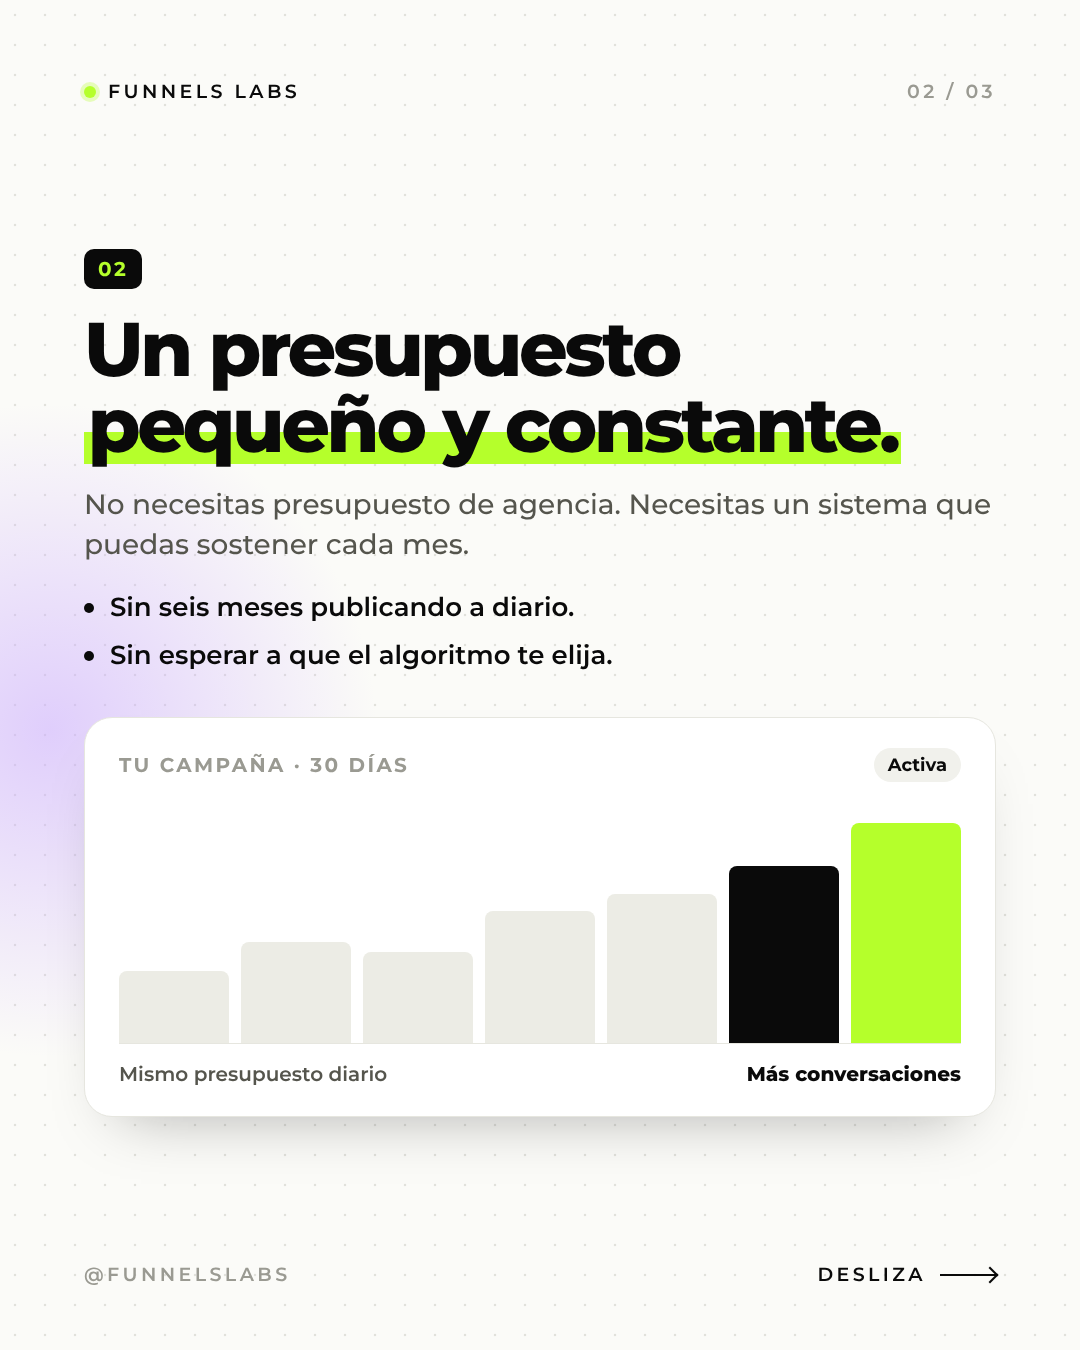
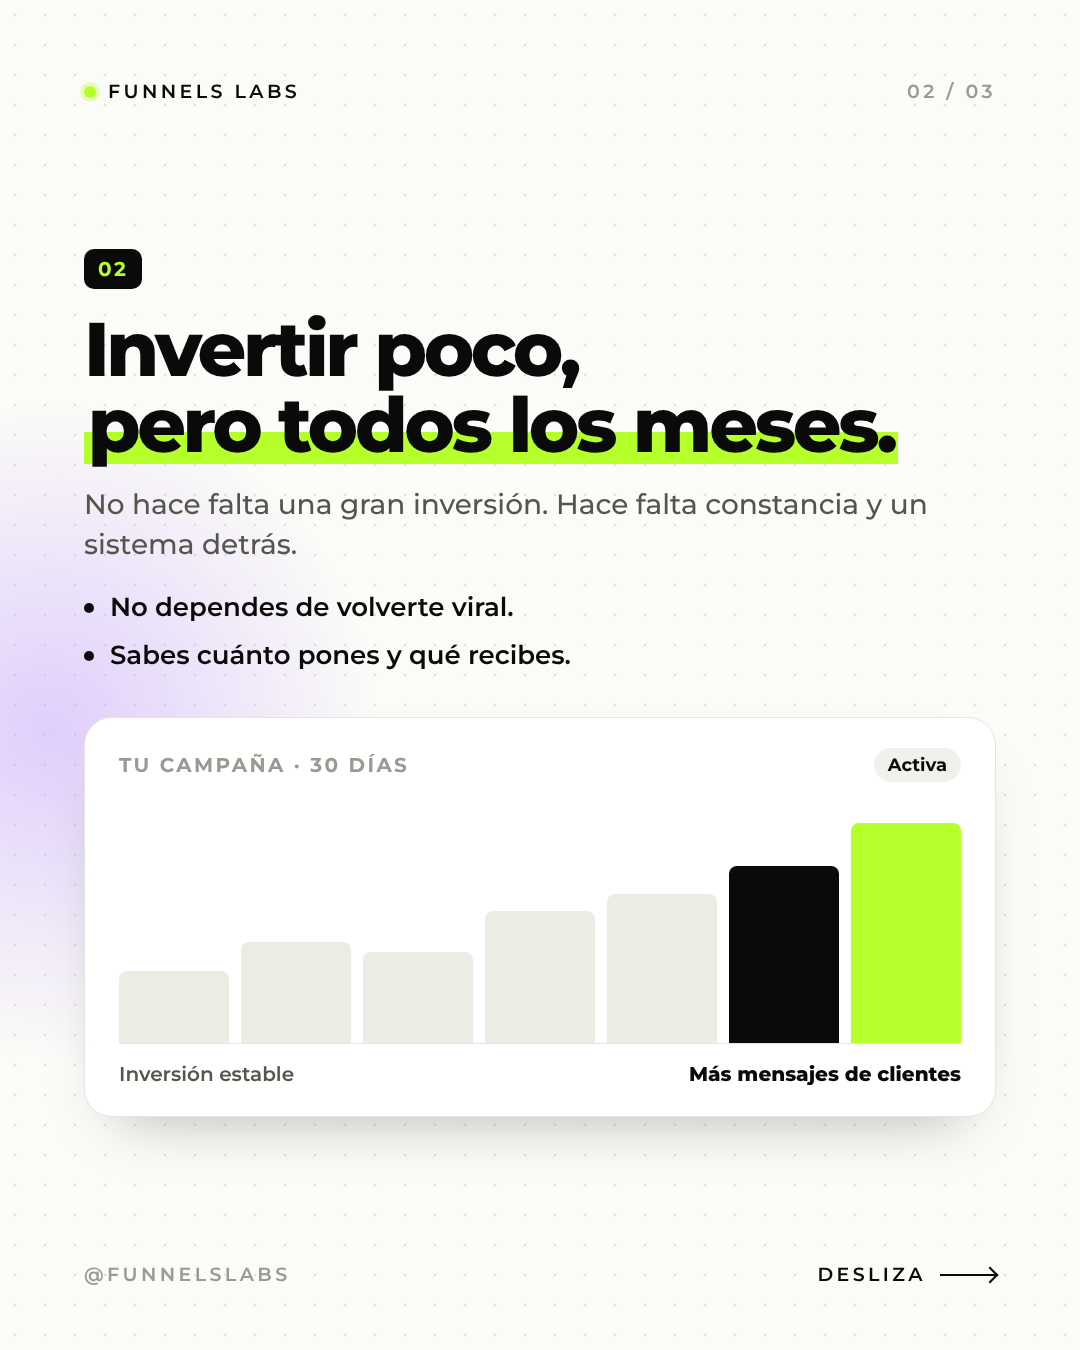
Orgánico no alcanza: mismo mensaje con textos propios
Claude-Session: https://claude.ai/code/session_018d4LXHkXweDJXxfN5x99dL

diff --git a/carruseles/organico-no-alcanza/carrusel.html b/carruseles/organico-no-alcanza/carrusel.html
@@ -54,8 +54,8 @@ body{background:#d9d9d2;font-family:"Montserrat",Arial,sans-serif;color:var(--in
       </div>
     </div>
   </div>
-  <div class="tag" style="margin-top:48px"><i></i>Lo que está cambiando</div>
-  <div class="h" style="font-size:84px;margin-top:22px">Publicar ya no<br>alcanza <span class="l">para</span> <span class="mark">vender.</span></div>
+  <div class="tag" style="margin-top:48px"><i></i>Las reglas cambiaron</div>
+  <div class="h" style="font-size:84px;margin-top:22px">Subir posts ya no<br><span class="l">te garantiza</span> <span class="mark">clientes.</span></div>
   <div class="foot"><span>@funnelslabs</span><span class="go">Desliza<s></s></span></div>
 </section>
 
@@ -63,12 +63,12 @@ body{background:#d9d9d2;font-family:"Montserrat",Arial,sans-serif;color:var(--in
 <section class="slide">
   <div class="blob" style="width:640px;height:640px;left:-260px;bottom:-200px;background:radial-gradient(circle,rgba(201,169,255,.6),rgba(201,169,255,0) 68%)"></div>
   <div class="top"><div class="b"><i></i>Funnels Labs</div><div>Contexto</div></div>
-  <div class="h" style="font-size:68px;margin-top:60px">Hoy tu feed lo decide<br>la <span class="mark">IA de Meta</span>,<br><span class="l">no tus seguidores.</span></div>
-  <p class="p" style="margin-top:28px;max-width:860px">Cada vez más de lo que ves en Instagram y Facebook es contenido recomendado, no de las cuentas que sigues. Publicar y esperar ya no es una estrategia.</p>
+  <div class="h" style="font-size:68px;margin-top:60px">Ya no te ve quien te sigue.<br><span class="l">Te ve quien</span><br><span class="mark">el algoritmo elige.</span></div>
+  <p class="p" style="margin-top:28px;max-width:860px">Instagram y Facebook muestran cada vez más contenido sugerido y menos de las cuentas que sigues. Esperar a que te descubran es dejarlo a la suerte.</p>
   <div style="position:relative;margin-top:44px;align-self:center">
     <div class="photo" style="width:620px;height:620px"><img src="img/zuck-retrato.jpg" style="object-position:50% 30%"></div>
-    <div class="chip" style="left:-120px;top:70px"><span style="width:44px;height:44px;border-radius:12px;background:var(--lime);display:flex;align-items:center;justify-content:center"><svg width="24" height="24" viewBox="0 0 24 24" fill="none" stroke="#0a0a0a" stroke-width="2.6" stroke-linecap="round"><path d="M4 17l5-5 4 4 7-8"/></svg></span>Más contenido recomendado</div>
-    <div class="chip" style="right:-110px;bottom:90px"><span style="width:44px;height:44px;border-radius:12px;background:#f1f1ec;display:flex;align-items:center;justify-content:center"><svg width="24" height="24" viewBox="0 0 24 24" fill="none" stroke="#0a0a0a" stroke-width="2.6" stroke-linecap="round"><path d="M4 7l5 5 4-4 7 8"/></svg></span>Menos alcance orgánico</div>
+    <div class="chip" style="left:-120px;top:70px"><span style="width:44px;height:44px;border-radius:12px;background:var(--lime);display:flex;align-items:center;justify-content:center"><svg width="24" height="24" viewBox="0 0 24 24" fill="none" stroke="#0a0a0a" stroke-width="2.6" stroke-linecap="round"><path d="M4 17l5-5 4 4 7-8"/></svg></span>Más contenido sugerido</div>
+    <div class="chip" style="right:-110px;bottom:90px"><span style="width:44px;height:44px;border-radius:12px;background:#f1f1ec;display:flex;align-items:center;justify-content:center"><svg width="24" height="24" viewBox="0 0 24 24" fill="none" stroke="#0a0a0a" stroke-width="2.6" stroke-linecap="round"><path d="M4 7l5 5 4-4 7 8"/></svg></span>Menos alcance gratis</div>
   </div>
   <div class="foot"><span>@funnelslabs</span><span class="go">Desliza<s></s></span></div>
 </section>
@@ -78,9 +78,9 @@ body{background:#d9d9d2;font-family:"Montserrat",Arial,sans-serif;color:var(--in
   <div class="blob" style="width:900px;height:900px;left:90px;top:220px;background:radial-gradient(circle,rgba(181,255,43,.45),rgba(181,255,43,0) 62%)"></div>
   <div class="top" style="position:absolute;left:84px;right:84px;top:80px"><div class="b"><i></i>Funnels Labs</div><div>La pregunta</div></div>
   <div style="text-align:center">
-    <div class="l" style="font-size:56px">Entonces…</div>
-    <div class="h" style="font-size:104px;margin-top:26px">¿qué funciona<br>en su lugar?</div>
-    <p class="p" style="margin-top:36px">Tres cosas que sí están trayendo clientes.</p>
+    <div class="l" style="font-size:56px">La pregunta es…</div>
+    <div class="h" style="font-size:104px;margin-top:26px">¿cómo consigues<br>clientes hoy?</div>
+    <p class="p" style="margin-top:36px">Tres piezas que hoy sí están funcionando.</p>
     <div style="display:flex;justify-content:center;gap:16px;margin-top:44px">
       <span class="num">01 · ANUNCIOS</span><span class="num">02 · PRESUPUESTO</span><span class="num">03 · WHATSAPP</span>
     </div>
@@ -93,9 +93,9 @@ body{background:#d9d9d2;font-family:"Montserrat",Arial,sans-serif;color:var(--in
   <div class="blob" style="width:700px;height:700px;right:-280px;bottom:-160px;background:radial-gradient(circle,rgba(181,255,43,.5),rgba(181,255,43,0) 66%)"></div>
   <div class="top"><div class="b"><i></i>Funnels Labs</div><div>01 / 03</div></div>
   <span class="num" style="margin-top:56px">01</span>
-  <div class="h" style="font-size:76px;margin-top:22px">El anuncio simple<br><span class="mark">que sí vende.</span></div>
-  <p class="p" style="margin-top:22px">Gana lo real, no lo superproducido.</p>
-  <ul class="bul"><li>Una foto con tu celular.</li><li>Tres líneas de texto, sin guion ni editor.</li><li>Se ve como contenido, no como publicidad.</li></ul>
+  <div class="h" style="font-size:76px;margin-top:22px">Menos producción,<br><span class="mark">más ventas.</span></div>
+  <p class="p" style="margin-top:22px">Los anuncios que parecen hechos en casa conectan más.</p>
+  <ul class="bul"><li>La cámara de tu celular es suficiente.</li><li>Un mensaje corto y directo.</li><li>Parece una publicación, no un comercial.</li></ul>
   <div style="display:flex;gap:34px;margin-top:44px;align-items:flex-end">
     <div class="card" style="width:380px;padding:16px">
       <div style="display:flex;align-items:center;gap:12px;padding:6px 6px 14px"><span style="width:40px;height:40px;border-radius:99px;background:var(--ink)"></span><div><div style="font-size:18px;font-weight:700">tu.negocio</div><div style="font-size:14px;color:var(--faint)">Publicidad</div></div></div>
@@ -105,7 +105,7 @@ body{background:#d9d9d2;font-family:"Montserrat",Arial,sans-serif;color:var(--in
       </div>
       <div style="margin-top:14px;background:var(--ink);color:#fff;font-weight:700;font-size:18px;text-align:center;border-radius:10px;padding:12px">Enviar mensaje</div>
     </div>
-    <div style="font-size:24px;font-weight:600;line-height:1.35;color:var(--muted);max-width:360px;padding-bottom:30px">Hecho en 15 minutos.<br><span style="color:var(--ink);font-weight:800">Sin agencia, sin estudio.</span></div>
+    <div style="font-size:24px;font-weight:600;line-height:1.35;color:var(--muted);max-width:360px;padding-bottom:30px">Listo en una tarde.<br><span style="color:var(--ink);font-weight:800">Sin equipo de producción.</span></div>
   </div>
   <div class="foot"><span>@funnelslabs</span><span class="go">Desliza<s></s></span></div>
 </section>
@@ -115,15 +115,15 @@ body{background:#d9d9d2;font-family:"Montserrat",Arial,sans-serif;color:var(--in
   <div class="blob" style="width:700px;height:700px;left:-300px;top:380px;background:radial-gradient(circle,rgba(201,169,255,.55),rgba(201,169,255,0) 66%)"></div>
   <div class="top"><div class="b"><i></i>Funnels Labs</div><div>02 / 03</div></div>
   <span class="num" style="margin-top:auto">02</span>
-  <div class="h" style="font-size:76px;margin-top:22px">Un presupuesto<br><span class="mark">pequeño y constante.</span></div>
-  <p class="p" style="margin-top:22px">No necesitas presupuesto de agencia. Necesitas un sistema que puedas sostener cada mes.</p>
-  <ul class="bul"><li>Sin seis meses publicando a diario.</li><li>Sin esperar a que el algoritmo te elija.</li></ul>
+  <div class="h" style="font-size:76px;margin-top:22px">Invertir poco,<br><span class="mark">pero todos los meses.</span></div>
+  <p class="p" style="margin-top:22px">No hace falta una gran inversión. Hace falta constancia y un sistema detrás.</p>
+  <ul class="bul"><li>No dependes de volverte viral.</li><li>Sabes cuánto pones y qué recibes.</li></ul>
   <div class="card" style="margin-top:44px;padding:30px 34px">
     <div style="display:flex;justify-content:space-between;align-items:center"><span style="font-size:20px;font-weight:700;letter-spacing:.12em;text-transform:uppercase;color:var(--faint)">Tu campaña · 30 días</span><span style="font-size:18px;font-weight:700;background:#f1f1ec;border-radius:99px;padding:6px 14px">Activa</span></div>
     <div style="display:flex;align-items:flex-end;gap:12px;height:240px;margin-top:22px;border-bottom:1px solid var(--line)">
       <i style="flex:1;height:30%;background:#ecece5;border-radius:8px 8px 0 0"></i><i style="flex:1;height:42%;background:#ecece5;border-radius:8px 8px 0 0"></i><i style="flex:1;height:38%;background:#ecece5;border-radius:8px 8px 0 0"></i><i style="flex:1;height:55%;background:#ecece5;border-radius:8px 8px 0 0"></i><i style="flex:1;height:62%;background:#ecece5;border-radius:8px 8px 0 0"></i><i style="flex:1;height:74%;background:var(--ink);border-radius:8px 8px 0 0"></i><i style="flex:1;height:92%;background:var(--lime);border-radius:8px 8px 0 0"></i>
     </div>
-    <div style="display:flex;justify-content:space-between;margin-top:18px;font-size:20px;font-weight:600;color:var(--muted)"><span>Mismo presupuesto diario</span><span style="color:var(--ink);font-weight:800">Más conversaciones</span></div>
+    <div style="display:flex;justify-content:space-between;margin-top:18px;font-size:20px;font-weight:600;color:var(--muted)"><span>Inversión estable</span><span style="color:var(--ink);font-weight:800">Más mensajes de clientes</span></div>
   </div>
   <div class="foot"><span>@funnelslabs</span><span class="go">Desliza<s></s></span></div>
 </section>
@@ -133,12 +133,12 @@ body{background:#d9d9d2;font-family:"Montserrat",Arial,sans-serif;color:var(--in
   <div class="blob" style="width:760px;height:760px;right:-300px;top:-260px;background:radial-gradient(circle,rgba(181,255,43,.5),rgba(181,255,43,0) 66%)"></div>
   <div class="top"><div class="b"><i></i>Funnels Labs</div><div>03 / 03</div></div>
   <span class="num" style="margin-top:auto">03</span>
-  <div class="h" style="font-size:76px;margin-top:22px">Del anuncio al cierre<br><span class="mark">por WhatsApp.</span></div>
-  <p class="p" style="margin-top:22px">Cada paso lleva al siguiente. Nadie se queda en un like.</p>
+  <div class="h" style="font-size:76px;margin-top:22px">Que cada clic<br><span class="mark">termine en venta.</span></div>
+  <p class="p" style="margin-top:22px">Un camino claro, del primer clic al pago.</p>
   <div style="display:flex;flex-direction:column;gap:22px;margin-top:50px">
-    <div class="card" style="display:flex;align-items:center;gap:26px;padding:26px 30px"><span class="num" style="align-self:center">01</span><div><div style="font-size:32px;font-weight:800;letter-spacing:-0.02em">El anuncio lleva a WhatsApp</div><div style="font-size:22px;color:var(--muted);margin-top:4px">Un clic y ya está conversando contigo.</div></div></div>
-    <div class="card" style="display:flex;align-items:center;gap:26px;padding:26px 30px;margin-left:50px"><span class="num" style="align-self:center">02</span><div><div style="font-size:32px;font-weight:800;letter-spacing:-0.02em">La IA responde y califica</div><div style="font-size:22px;color:var(--muted);margin-top:4px">Al instante, a cualquier hora.</div></div></div>
-    <div class="card" style="display:flex;align-items:center;gap:26px;padding:26px 30px;margin-left:100px;border:2px solid var(--ink)"><span class="num" style="align-self:center;background:var(--lime);color:var(--ink)">03</span><div><div style="font-size:32px;font-weight:800;letter-spacing:-0.02em">Agenda o compra</div><div style="font-size:22px;color:var(--muted);margin-top:4px">Tú solo atiendes a quien ya está listo.</div></div></div>
+    <div class="card" style="display:flex;align-items:center;gap:26px;padding:26px 30px"><span class="num" style="align-self:center">01</span><div><div style="font-size:32px;font-weight:800;letter-spacing:-0.02em">Ven el anuncio y te escriben</div><div style="font-size:22px;color:var(--muted);margin-top:4px">Directo a tu WhatsApp, sin formularios.</div></div></div>
+    <div class="card" style="display:flex;align-items:center;gap:26px;padding:26px 30px;margin-left:50px"><span class="num" style="align-self:center">02</span><div><div style="font-size:32px;font-weight:800;letter-spacing:-0.02em">Les respondes al momento</div><div style="font-size:22px;color:var(--muted);margin-top:4px">Un agente de IA atiende y filtra 24/7.</div></div></div>
+    <div class="card" style="display:flex;align-items:center;gap:26px;padding:26px 30px;margin-left:100px;border:2px solid var(--ink)"><span class="num" style="align-self:center;background:var(--lime);color:var(--ink)">03</span><div><div style="font-size:32px;font-weight:800;letter-spacing:-0.02em">Cierran contigo</div><div style="font-size:22px;color:var(--muted);margin-top:4px">Hablas solo con quien ya quiere comprar.</div></div></div>
   </div>
   <div class="foot"><span>@funnelslabs</span><span class="go">Desliza<s></s></span></div>
 </section>
@@ -148,10 +148,10 @@ body{background:#d9d9d2;font-family:"Montserrat",Arial,sans-serif;color:var(--in
   <div class="blob" style="width:980px;height:980px;left:50px;top:300px;background:radial-gradient(circle,rgba(181,255,43,.45),rgba(181,255,43,0) 62%)"></div>
   <div class="top"><div class="b"><i></i>Funnels Labs</div><div>Antes de irte</div></div>
   <div style="margin:auto 0;text-align:center">
-    <div class="h" style="font-size:72px;line-height:1.05">Estos son 3 pasos<br>del sistema que usamos</div>
-    <div class="l" style="font-size:72px;line-height:1.05;margin-top:10px">para conseguir clientes</div>
-    <div class="h" style="font-size:72px;line-height:1.05;margin-top:10px"><span class="mark">sin depender del algoritmo.</span></div>
-    <p class="p" style="margin-top:50px">Comenta y te mostramos cómo se vería en tu negocio:</p>
+    <div class="h" style="font-size:72px;line-height:1.05">Así funciona el sistema<br>que armamos</div>
+    <div class="l" style="font-size:72px;line-height:1.05;margin-top:10px">para vender</div>
+    <div class="h" style="font-size:72px;line-height:1.05;margin-top:10px"><span class="mark">aunque el algoritmo cambie.</span></div>
+    <p class="p" style="margin-top:50px">¿Lo quieres para tu negocio? Comenta:</p>
     <div style="display:inline-flex;align-items:center;gap:22px;margin-top:28px;background:var(--ink);border-radius:99px;padding:20px 46px 22px">
       <span style="width:16px;height:16px;border-radius:99px;background:var(--lime);box-shadow:0 0 0 6px rgba(181,255,43,.3)"></span>
       <span class="h" style="font-size:56px;color:#fff">SISTEMA</span></div>

diff --git a/carruseles/organico-no-alcanza/caption.md b/carruseles/organico-no-alcanza/caption.md
@@ -1,5 +1,5 @@
-Publicar todos los días ya no garantiza clientes.
+Subir posts ya no te garantiza clientes.
 
-Te dejo 3 cosas que sí están funcionando. Comenta “SISTEMA” y te mostramos cómo aplicarlas en tu negocio.
+Esto es lo que sí funciona hoy. Comenta “SISTEMA” y te contamos cómo aplicarlo en tu negocio.
 
 #emprendedoreslatam #funnelslabs
